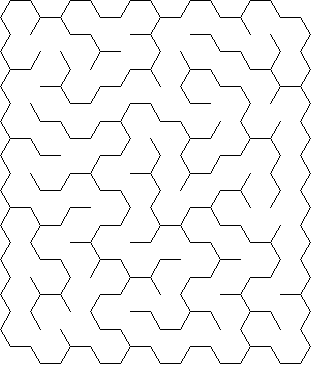
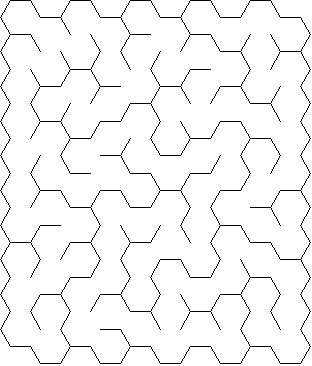
Added delta(triangle) maze generation with seperate classes

diff --git a/triangle_grid.py b/triangle_grid.py
@@ -1,0 +1,112 @@
+import math
+from PIL import Image, ImageDraw
+from grid import Grid, Cell
+import random
+from recursive_backtracker import RecursiveBacktracker
+
+class TriangleCell(Cell):
+    
+    def upright(self):
+        return (self.row + self.col) % 2  == 0
+    
+    def neighbours(self):
+        nei = []
+        upright = self.upright()
+        if self.north and not upright:
+            nei.append(self.north)
+        if self.south and upright:
+            nei.append(self.south)
+        if self.west:
+            nei.append(self.west)
+        if self.east:
+            nei.append(self.east)   
+        return nei
+    
+    
+class TriangleGrid(Grid):
+    
+    def prepare_grid(self):
+        grid = []
+        for i in range(self.rows):
+            row_list = []
+            for j in range(self.cols):
+                row_list.append(TriangleCell(i,j))
+            grid.append(row_list)
+        return grid
+    
+    def configure_cells(self):
+        for cell in self.each_cell():
+            row, col = cell.row, cell.col
+            
+            if col - 1 >= 0:
+                cell.west = self.grid[row][col-1]
+            
+            if col + 1 < self.cols:
+                cell.east = self.grid[row][col+1]   
+                     
+            if cell.upright() and row + 1 < self.rows:
+                cell.south = self.grid[row+1][col]            
+            if not cell.upright() and  row - 1 >= 0 :
+                cell.north = self.grid[row-1][col]
+
+    def background_colour_cell(self, cell):
+        return (255,255,255,255)
+                   
+    def to_png(self, size=20, fname="tri_maze.png"):
+        half_width = size / 2
+        height = (size * math.sqrt(3)) / 2
+        half_height = height / 2
+        
+        img_width = int(size * (self.cols + 1) / 2)
+        img_height = int(height * self.rows)
+        
+        img = Image.new("RGBA",(img_width+2,img_height+2),(255,255,255,0))
+        d = ImageDraw.Draw(img)
+        wall = (0,0,0,255)
+        for mode in ["background", "walls"]: # Draw background in first cycle, walls with second
+            for cell in self.each_cell():
+                # center point of cell
+                cx = half_width + cell.col * half_width
+                cy = half_height + cell.row * height
+                
+                west_x = cx - half_width
+                mid_x = cx
+                east_x = cx + half_width
+                
+                upright = cell.upright()
+                if upright:
+                    apex_y = cy - half_height
+                    base_y = cy + half_height
+                else:
+                    apex_y = cy + half_height
+                    base_y = cy - half_height
+                
+
+                if mode == "background":
+                    colour = self.background_colour_cell(cell)
+                    if colour:
+                        points = [(west_x, base_y), (mid_x, apex_y), (east_x, base_y)]
+                        d.polygon(xy=points,fill=colour)
+                        
+                else:
+                    if not cell.west:
+                        d.line([west_x, base_y, mid_x, apex_y], fill=wall,width=2)
+                    if not cell.linked(cell.east):
+                        d.line([east_x, base_y, mid_x, apex_y], fill=wall,width=2)
+                        
+                    no_south = cell.upright() and cell.south is None
+                    not_linked = not cell.upright() and not cell.linked(cell.north)
+                    
+                    if no_south or not_linked:
+                        d.line([east_x, base_y, west_x,base_y], fill = wall, width=2)
+                        
+        img.save(fname,"PNG")  
+        
+if __name__ == "__main__":
+    
+    grid = TriangleGrid(10,17)
+    rback = RecursiveBacktracker()
+    rback.on(grid)
+    
+    grid.to_png(size=30,fname="delta_maze.png")
+    print("Image created delta_maze.png")

diff --git a/hex_grid.py b/hex_grid.py
@@ -30,9 +30,6 @@ class HexCell(Cell):
     
 class HexGrid(Grid):
     
-    def __init__(self, rows,cols):
-        super().__init__(rows, cols)
-    
     def prepare_grid(self):
         grid = []
         for i in range(self.rows):
